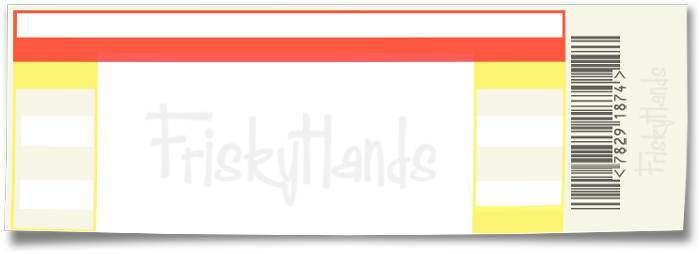
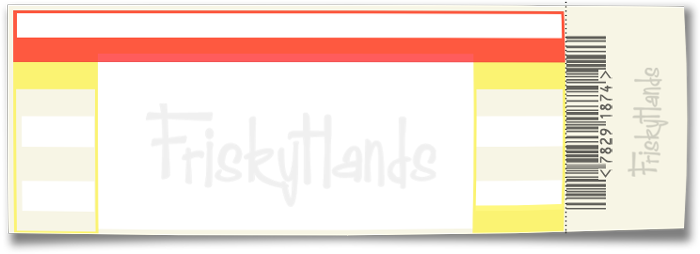
Ticket flip lab

diff --git a/public/stylesheets/friskyhands/waves/event.css b/public/stylesheets/friskyhands/waves/event.css
@@ -1,8 +1,48 @@
+.ticket-container {
+	width: 720px;
+	height: 254px;
+	-webkit-perspective: 1200;
+}
+
 .ticket {
+	position: absolute;
+	width: 720px;
+	height: 254px;
+	-webkit-transform-style: preserve-3d;	
+	-webkit-transition-property: -webkit-transform;
+	-webkit-transition-duration: 1s;
+}
+
+.ticket.flipped {
+	-webkit-transform: rotateY(180deg);
+}
+
+.wave_container.horizontal .ticket.flipped {
+	-webkit-transform: rotateX(180deg);
+}
+
+.ticket .face {
+	position: absolute;
+	-webkit-backface-visibility: hidden;    
+}
+
+.ticket .front.face {
 	margin: 0 auto;
 	width: 700px;
 	height: 254px;
 	background: url('/images/friskyhands/ticket.png');
+}
+
+.ticket .back.face {
+	margin: 0 auto;
+	width: 700px;
+	height: 254px;
+	background: url('/images/friskyhands/ticket-b-side.png');	
+	-webkit-transform: rotateY(180deg);	
+}
+
+.wave_container.horizontal .ticket .back.face {
+	-webkit-transform: rotateX(180deg);		
 }
 
 .ticket .header {
@@ -48,43 +88,43 @@
 	margin: 10px 0;
 }
 
-.wave.events .event {
+/*.wave.events .event {
     -webkit-transform: rotate(-2deg);
     -moz-transform: rotate(-2deg);
     postition: relative;
-}
+}*/
 
-.wave.events .event:nth-child(even) {
+/*.wave.events .event:nth-child(even) {
     -webkit-transform: rotate(2deg);
     -moz-transform: rotate(2deg);
-}
+}*/
 
-.wave.events .event:nth-child(3n) {
+/*.wave.events .event:nth-child(3n) {
 	position: relative;
     -webkit-transform: rotate(-3deg);
     -moz-transform: rotate(-3deg);
     top: -30px;
     right: 30px;
-}
+}*/
 
-.wave.events .event:nth-child(5n) {
+/*.wave.events .event:nth-child(5n) {
 	position: relative;
     -webkit-transform: rotate(5deg);
     -moz-transform: rotate(5deg);
     left: 30px;
-}
+}*/
 
-.wave.events .event:nth-child(8n) {
+/*.wave.events .event:nth-child(8n) {
     -webkit-transform: rotate(-5deg);
     -moz-transform: rotate(-5deg);
     top: 10px;
     right: 10px;
-}
+}*/
 
-.wave.events .event:nth-child(11n) {
+/*.wave.events .event:nth-child(11n) {
     top: -10px;
     right: -15px;
-}
+}*/
 
 
 #new_event_overlay h1 {

diff --git a/public/javascripts/waves/event.js b/public/javascripts/waves/event.js
@@ -1,4 +1,4 @@
-jQuery(function($){
+jQuery(function($) {
 
 	var $trigger;
 	var $ticket = $('#new_event_overlay');
@@ -14,6 +14,10 @@ jQuery(function($){
 			},
 			onLoad: function(event) {}
 		});
+
+	$('.ticket-container > .ticket').click(function(event) {
+		$(this).closest('.ticket').toggleClass('flipped');
+	});
 		
 	$ticket
 		.find('.date')

diff --git a/app/controllers/labs_controller.rb b/app/controllers/labs_controller.rb
@@ -1,3 +1,8 @@
 class LabsController < ApplicationController
   layout nil
+  
+  def tickets
+    render :layout => 'application'
+  end
+  
 end
